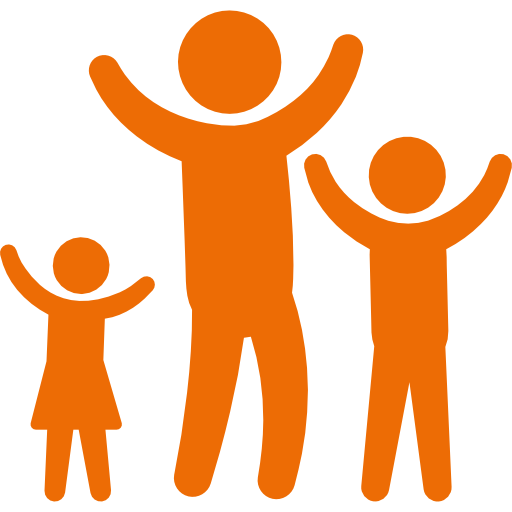
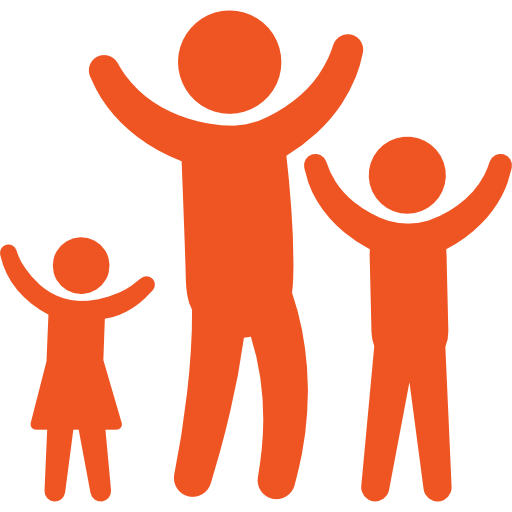
Phase 2
Updated design for Suffolk Youth Offending website.

diff --git a/css/custom.css b/css/custom.css
@@ -9,10 +9,10 @@ and open the template in the editor.
 */
 body {
     padding-top: 25px !important;
-    background-color: #4E3D66;
-    color: #FFF;
-    /*    background-image: url("../images/wallpaper.png");*/
-    /*    background-repeat: repeat;*/
+    /*    background-color: #4E3D66;*/
+    color: #50505A;
+    background-image: url("../images/stone.png");
+    background-repeat: repeat;
 }
 .masthead-margin{
     margin-bottom: 5px    
@@ -37,7 +37,7 @@ body {
     margin: 0px;
     padding-left: 10px;
     font-weight: bold;
-    color: #FFFFFF;
+    color: #50505A;
 
     /*    Green BG*/
     /*    background-color: #90C5A9;
@@ -50,7 +50,7 @@ body {
     margin: 0px;
     padding-left: 10px;
     font-weight: bold;
-    color: #FFFFFF;
+    color: #50505A;
 
     /*    Green BG*/
     /*    margin-top: 0px;
@@ -81,32 +81,32 @@ body {
     border-color: transparent !important;
 }
 .nav-justified li a {
-    color: #4E3D66 !important;
-    background-color: #91C5A9 !important;
+    color: #FFF !important;
+    background-color: #50505A !important;
     background-image: none !important;
-    border-color: #a7d0ba !important;
+    border-color: #FFF !important;
     border-bottom: none !important;
-    font-size: 16px;
+    font-size: 14px;
     font-weight: bold !important;
-    
+
 }
 .nav-justified > .active > a, .nav-justified > .active > a:hover, .nav-justified > .active > a:focus {
     color: #FFF;
-    background-color: #91C5A9 !important;
+    background-color: #50505A !important;
 }
 .portal-links a{
-    color: white !important;
+    color: #50505A !important;
 }
 #search{
     float: right;
     padding-right: 15px;
     border-radius: 5px;
 }
-/*.search{
+.search{
     color: #fff;
-    background-color: #91C5A9;
-    border-color: #ccc;    
-}*/
+    background-color: #EE5523;
+    border-color: #C2471F;    
+}
 .nav-pad{
     padding-bottom: 10px;
     padding-right: 20px;
@@ -154,7 +154,7 @@ body {
     padding-left: 0px;
     padding-right: 5px;
     padding-bottom: 5px;
-    background-color: #4E3D66;
+    background-color: transparent;
 }
 #panel2{
     /*background-color: #acb1b9;*/
@@ -171,7 +171,7 @@ body {
     padding-left: 5px;
     padding-right: 5px;
     padding-bottom: 5px;
-    background-color: #4E3D66;
+    background-color: transparent;
 }
 #panel3{
     /*    background-color: #999da4;*/
@@ -188,7 +188,7 @@ body {
     padding-left: 5px;
     padding-right: 5px;
     padding-bottom: 5px;
-    background-color: #4E3D66;
+    background-color: transparent;
 }
 #panel4{
     /*    background-color: #868990;*/
@@ -205,7 +205,7 @@ body {
     padding-left: 5px;
     padding-right: 0px;
     padding-bottom: 5px;
-    background-color: #4E3D66;
+    background-color: transparent;
 }
 #panel5{
     /*    background-color: #c0c5ce;*/
@@ -222,7 +222,7 @@ body {
     padding-left: 0px;
     padding-right: 5px;
     padding-bottom: 5px;
-    background-color: #4E3D66;
+    background-color: transparent;
 }
 #panel6{
     /*background-color: #acb1b9;*/
@@ -239,7 +239,7 @@ body {
     padding-left: 5px;
     padding-right: 5px;
     padding-bottom: 5px;
-    background-color: #4E3D66;
+    background-color: transparent;
 }
 #panel7{
     /*    background-color: #999da4;*/
@@ -256,7 +256,7 @@ body {
     padding-left: 5px;
     padding-right: 5px;
     padding-bottom: 5px;
-    background-color: #4E3D66;
+    background-color: transparent;
 }
 #panel8{
     /*    background-color: #868990;*/
@@ -273,10 +273,7 @@ body {
     padding-left: 5px;
     padding-right: 0px;
     padding-bottom: 5px;
-    background-color: #4E3D66;
-}
-footer{
-    color: #FFF;
+    background-color: transparent;
 }
 .icon:hover {
     -webkit-animation: pulse 1s;
@@ -295,9 +292,9 @@ footer{
 }
 .btn.btn-primary{
     border-radius:0;
-    margin:10px;
-    background-color: #EB6B39;
-    border-color: #D15B37;
+    margin: 10px;
+    background-color: #EE5523;
+    border-color: #C2471F;
     margin-left: 0px;
 }
 #login_bar{
@@ -318,6 +315,6 @@ footer{
 }
 .btn-success {
     color: #fff;
-    background-color: #EB6B39 !important;
-    border-color: #D15B37;
+    background-color: #EE5523 !important;
+    border-color: #C2471F;
 }
